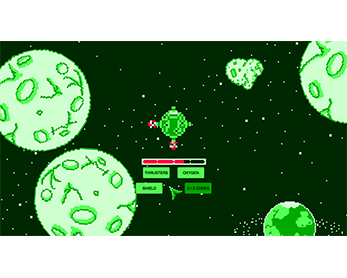
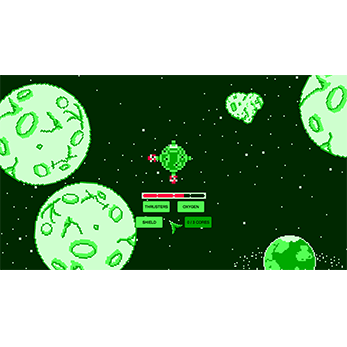
CL-000028
- Added graphic art for Take a Breath 
- Made the images for the games constrained at 347px 
- Made it so that the buttons and images are always centered 
- added taller transparent bars around the gameplay images for Take a Breath so it doesn't shift the whole site when viewing

diff --git a/gerardo-portfolio-games.html b/gerardo-portfolio-games.html
@@ -8,7 +8,7 @@
 			function ChangeImageTaBL()
 			{
 				var imgR3 = document.getElementById("imageTaB");
-				imgR3.src="images-games-games/TaBLogo.png";
+				imgR3.src="images-games/TaBLogoV2.png";
 
 				document.getElementById("ButTaB1").className = "buttonTaBYeSel";
 
@@ -254,11 +254,13 @@
 			<div class="columngameimg">
 				<h5>Take a Breath</h5>
 				<h6>(Mini Jam 73 "Power" Game Jam)</h6>
-		  		<img id="imageTaB" style="height: 100%; width: 100%; object-fit: contain" src="images-games/TaBLogo.png">
-		  		<F><b>Images: </b></F>
-		  		<button id="ButTaB1" class="buttonTaBYeSel" onclick="ChangeImageTaBL();">Logo</button>
-		  		<button id="ButTaB2" class="buttonTaBUnSel" onclick="ChangeImageTaBI1();">Gameplay 1</button>
-		  		<button id="ButTaB3" class="buttonTaBUnSel" onclick="ChangeImageTaBI2();">Gameplay 2</button>
+		  		<img id="imageTaB" style="width: 347px; object-fit: contain; margin-left: auto; margin-right: auto;" src="images-games/TaBLogoV2.png">
+		  		<div style="display: flex; justify-content: center; align-items: center;">
+			  		<F><b>Images: </b></F>
+			  		<button id="ButTaB1" class="buttonTaBYeSel" onclick="ChangeImageTaBL();">Logo</button>
+			  		<button id="ButTaB2" class="buttonTaBUnSel" onclick="ChangeImageTaBI1();">Gameplay 1</button>
+			  		<button id="ButTaB3" class="buttonTaBUnSel" onclick="ChangeImageTaBI2();">Gameplay 2</button>
+			  	</div>
 		  	</div>
 
 		  	<div class="columngamedes">
@@ -276,16 +278,16 @@
 					<E><b>Link to download:</b></E>
 					<A href="https://screams-from-the-cellar.itch.io/take-a-breath">
 						<E>
-							<b>https://screams-from-the-cellar.itch.io/take-a-breath</b>
+							<b class="hunterlink">Mac / PC (itch.io)</b>
 						</E>
 					</A>
 
 					</br>
 
-					<E><b>Link to GitHib repository:</b></E>
-					<A href="TBD">
+					<E><b>Link to repository:</b></E>
+					<A href="https://github.com/TheThrillOfMurder/Mini-Jam-73---Power">
 						<E>
-							<b>TBD</b>
+							<b class="hunterlink">GitHub</b>
 						</E>
 					</A>
 				</p>
@@ -308,11 +310,13 @@
 			<div class="columngameimg">
 				<h5>Rewound Running Remix</h5>
 				<h6>(Brackeys 2020.2 "Rewind" Game Jam )</h6>
-		  		<img id="imageR3" style="height: 100%; width: 100%; object-fit: contain" src="images-games/R3Logo.png">
-		  		<F><b>Images: </b></F>
-		  		<button id="ButR31" class="buttonR3YeSel" onclick="ChangeImageR3L();">Logo</button>
-		  		<button id="ButR32" class="buttonR3UnSel" onclick="ChangeImageR3I1();">Gameplay 1</button>
-		  		<button id="ButR33" class="buttonR3UnSel" onclick="ChangeImageR3I2();">Gameplay 2</button>
+		  		<img id="imageR3" style="width: 347px; object-fit: contain; margin-left: auto; margin-right: auto;" src="images-games/R3Logo.png">
+		  		<div style="display: flex; justify-content: center; align-items: center;">
+			  		<F><b>Images: </b></F>
+			  		<button id="ButR31" class="buttonR3YeSel" onclick="ChangeImageR3L();">Logo</button>
+			  		<button id="ButR32" class="buttonR3UnSel" onclick="ChangeImageR3I1();">Gameplay 1</button>
+			  		<button id="ButR33" class="buttonR3UnSel" onclick="ChangeImageR3I2();">Gameplay 2</button>
+			  	</div>
 		  	</div>
 
 		  	<div class="columngamedes">
@@ -330,16 +334,16 @@
 					<E><b>Link to download:</b></E>
 					<A href="https://persomatey.itch.io/rewound-running-remix">
 						<E>
-							<b>https://persomatey.itch.io/rewound-running-remix</b>
+							<b class="hunterlink">PC / Mac (itch.io)</b>
 						</E>
 					</A>
 
 					</br>
 
-					<E><b>Link to GitHib repository:</b></E>
+					<E><b>Link to repository:</b></E>
 					<A href="https://github.com/Persomatey/ProjectRewindRhythm">
 						<E>
-							<b>https://github.com/Persomatey/ProjectRewindRhythm</b>
+							<b class="hunterlink">GitHub</b>
 						</E>
 					</A>
 				</p>
@@ -362,11 +366,13 @@
 			<div class="columngameimg">
 				<h5>Legend of Fantasy</h5>
 				<h6>(COC CSC Spring 2019)</h6>
-		  		<img  id="imageLoF" style="height: 100%; width: 100%; object-fit: contain" src="images-games/LoFLogo.png">
-		  		<F><b>Images: </b></F>
-		  		<button id="ButLoF1" class="buttonLoFYeSel" onclick="ChangeImageLoFL();">Logo</button>
-		  		<button id="ButLoF2" class="buttonLoFUnSel" onclick="ChangeImageLoFI1();">Gameplay 1</button>
-		  		<button id="ButLoF3" class="buttonLoFUnSel" onclick="ChangeImageLoFI2();">Gameplay 2</button>
+		  		<img  id="imageLoF" style="width: 347px; object-fit: contain; margin-left: auto; margin-right: auto;" src="images-games/LoFLogo.png">
+		  		<div style="display: flex; justify-content: center; align-items: center;">
+			  		<F><b>Images: </b></F>
+			  		<button id="ButLoF1" class="buttonLoFYeSel" onclick="ChangeImageLoFL();">Logo</button>
+			  		<button id="ButLoF2" class="buttonLoFUnSel" onclick="ChangeImageLoFI1();">Gameplay 1</button>
+			  		<button id="ButLoF3" class="buttonLoFUnSel" onclick="ChangeImageLoFI2();">Gameplay 2</button>
+			  	</div>
 		  	</div>
 
 		  	<div class="columngamedes">
@@ -384,16 +390,16 @@
 					<E><b>Link to download:</b></E>
 					<A href="https://coc-computerscienceclub.itch.io/legend-of-fantasy">
 						<E>
-							<b>https://coc-computerscienceclub.itch.io/legend-of-fantasy</b>
+							<b class="hunterlink">PC / Mac (itch.io)</b>
 						</E>
 					</A>
 
 					</br>
 
-					<E><b>Link to GitHib repository:</b></E>
+					<E><b>Link to repository:</b></E>
 					<A href="https://github.com/CanyonsCSClub/Spring2019">
 						<E>
-							<b>https://github.com/CanyonsCSClub/Spring2019</b>
+							<b class="hunterlink">GitHub</b>
 						</E>
 					</A>
 				</p>
@@ -416,11 +422,13 @@
 			<div class="columngameimg">
 				<h5>Space Shooter 9000</h5>
 				<h6>(COC CSC Fall 2017)</h6>
-		  		<img  id="imageSS" style="height: 100%; width: 100% object-fit: contain" src="images-games/SS9000Logo.png">
-		  		<F><b>Images: </b></F>
-		  		<button id="ButSS1" class="buttonSSYeSel" onclick="ChangeImageSSL();">Logo</button>
-		  		<button id="ButSS2" class="buttonSSUnSel" onclick="ChangeImageSSI1();">Gameplay 1</button>
-		  		<button id="ButSS3" class="buttonSSUnSel" onclick="ChangeImageSSI2();">Gameplay 2</button>
+		  		<img  id="imageSS" style="width: 347px; object-fit: contain; margin-left: auto; margin-right: auto;" src="images-games/SS9000Logo.png">
+		  		<div style="display: flex; justify-content: center; align-items: center;">
+			  		<F><b>Images: </b></F>
+			  		<button id="ButSS1" class="buttonSSYeSel" onclick="ChangeImageSSL();">Logo</button>
+			  		<button id="ButSS2" class="buttonSSUnSel" onclick="ChangeImageSSI1();">Gameplay 1</button>
+			  		<button id="ButSS3" class="buttonSSUnSel" onclick="ChangeImageSSI2();">Gameplay 2</button>
+			  	</div>
 		  	</div>
 
 		  	<div class="columngamedes">
@@ -438,16 +446,16 @@
 					<E><b>Link to download:</b></E>
 					<A href="https://coc-computerscienceclub.itch.io/space-shooter-9000">
 						<E>
-							<b>https://coc-computerscienceclub.itch.io/space-shooter-9000</b>
+							<b class="hunterlink">PC / Mac (itch.io)</b>
 						</E>
 					</A>
 
 					</br>
 
-					<E><b>Link to GitHib repository:</b></E>
+					<E><b>Link to repository:</b></E>
 					<A href="https://github.com/CanyonsCSClub/Fall2017">
 						<E>
-							<b>https://github.com/CanyonsCSClub/Fall2017</b>
+							<b class="hunterlink">GitHub</b>
 						</E>
 					</A>
 				</p>

diff --git a/gerardostyle.css b/gerardostyle.css
@@ -383,6 +383,16 @@ body
   animation-play-state: paused;
 }
 
+.hunterlink
+{
+  color: slategrey;
+}
+
+.hunterlink:hover
+{
+  color: slateblue;
+}
+
 /* Font Control Stuff */
     A
     {
@@ -478,14 +488,13 @@ body
       font-size: 16px;
       margin: 4px 2px;
       cursor: pointer;
-
       background-color: grey; 
       border-radius: 3px;
     }
     .buttonR3YeSel 
     {
       border: none;
-      color: white;
+      color: yellow;
       padding: 5px 10px;
       text-align: center;
       text-decoration: none;
@@ -493,7 +502,6 @@ body
       font-size: 16px;
       margin: 4px 2px;
       cursor: pointer;
-
       background-color: #0000d1; 
       border-radius: 14px;
     }
@@ -508,14 +516,13 @@ body
       font-size: 16px;
       margin: 4px 2px;
       cursor: pointer;
-
       background-color: grey; 
       border-radius: 3px;
     }
     .buttonLoFYeSel 
     {
       border: none;
-      color: white;
+      color: palegoldenrod;
       padding: 5px 10px;
       text-align: center;
       text-decoration: none;
@@ -523,7 +530,6 @@ body
       font-size: 16px;
       margin: 4px 2px;
       cursor: pointer;
-
       background-color: #2e7630; 
       border-radius: 14px;
     }
@@ -538,14 +544,13 @@ body
       font-size: 16px;
       margin: 4px 2px;
       cursor: pointer;
-
       background-color: grey; 
       border-radius: 3px;
     }
     .buttonSSYeSel 
     {
       border: none;
-      color: white;
+      color: skyblue;
       padding: 5px 10px;
       text-align: center;
       text-decoration: none;
@@ -553,37 +558,6 @@ body
       font-size: 16px;
       margin: 4px 2px;
       cursor: pointer;
-
       background-color: #f41818; 
-      border-radius: 14px;
-    }
-    .buttonFaUnSel 
-    {
-      border: none;
-      color: white;
-      padding: 5px 10px;
-      text-align: center;
-      text-decoration: none;
-      display: inline-block;
-      font-size: 16px;
-      margin: 4px 2px;
-      cursor: pointer;
-
-      background-color: grey; 
-      border-radius: 3px;
-    }
-    .buttonFaYeSel 
-    {
-      border: none;
-      color: white;
-      padding: 5px 10px;
-      text-align: center;
-      text-decoration: none;
-      display: inline-block;
-      font-size: 16px;
-      margin: 4px 2px;
-      cursor: pointer;
-
-      background-color: #195195; 
       border-radius: 14px;
     }
